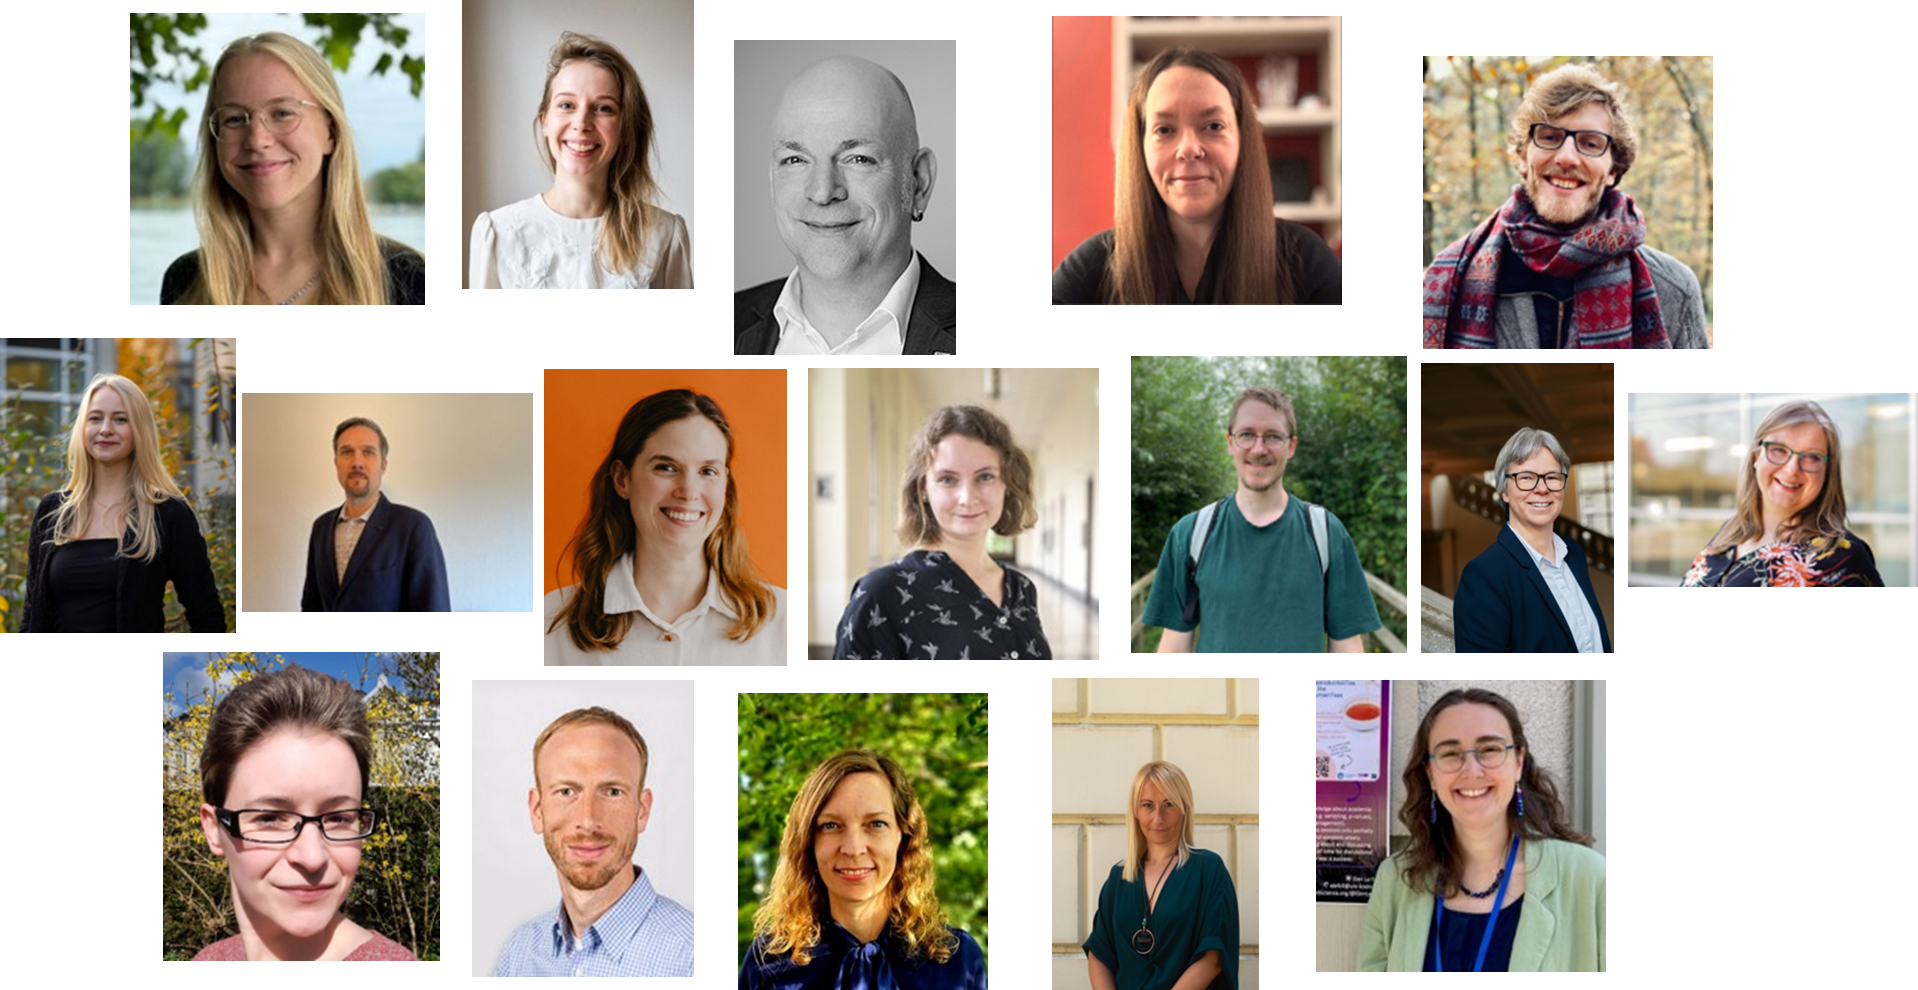
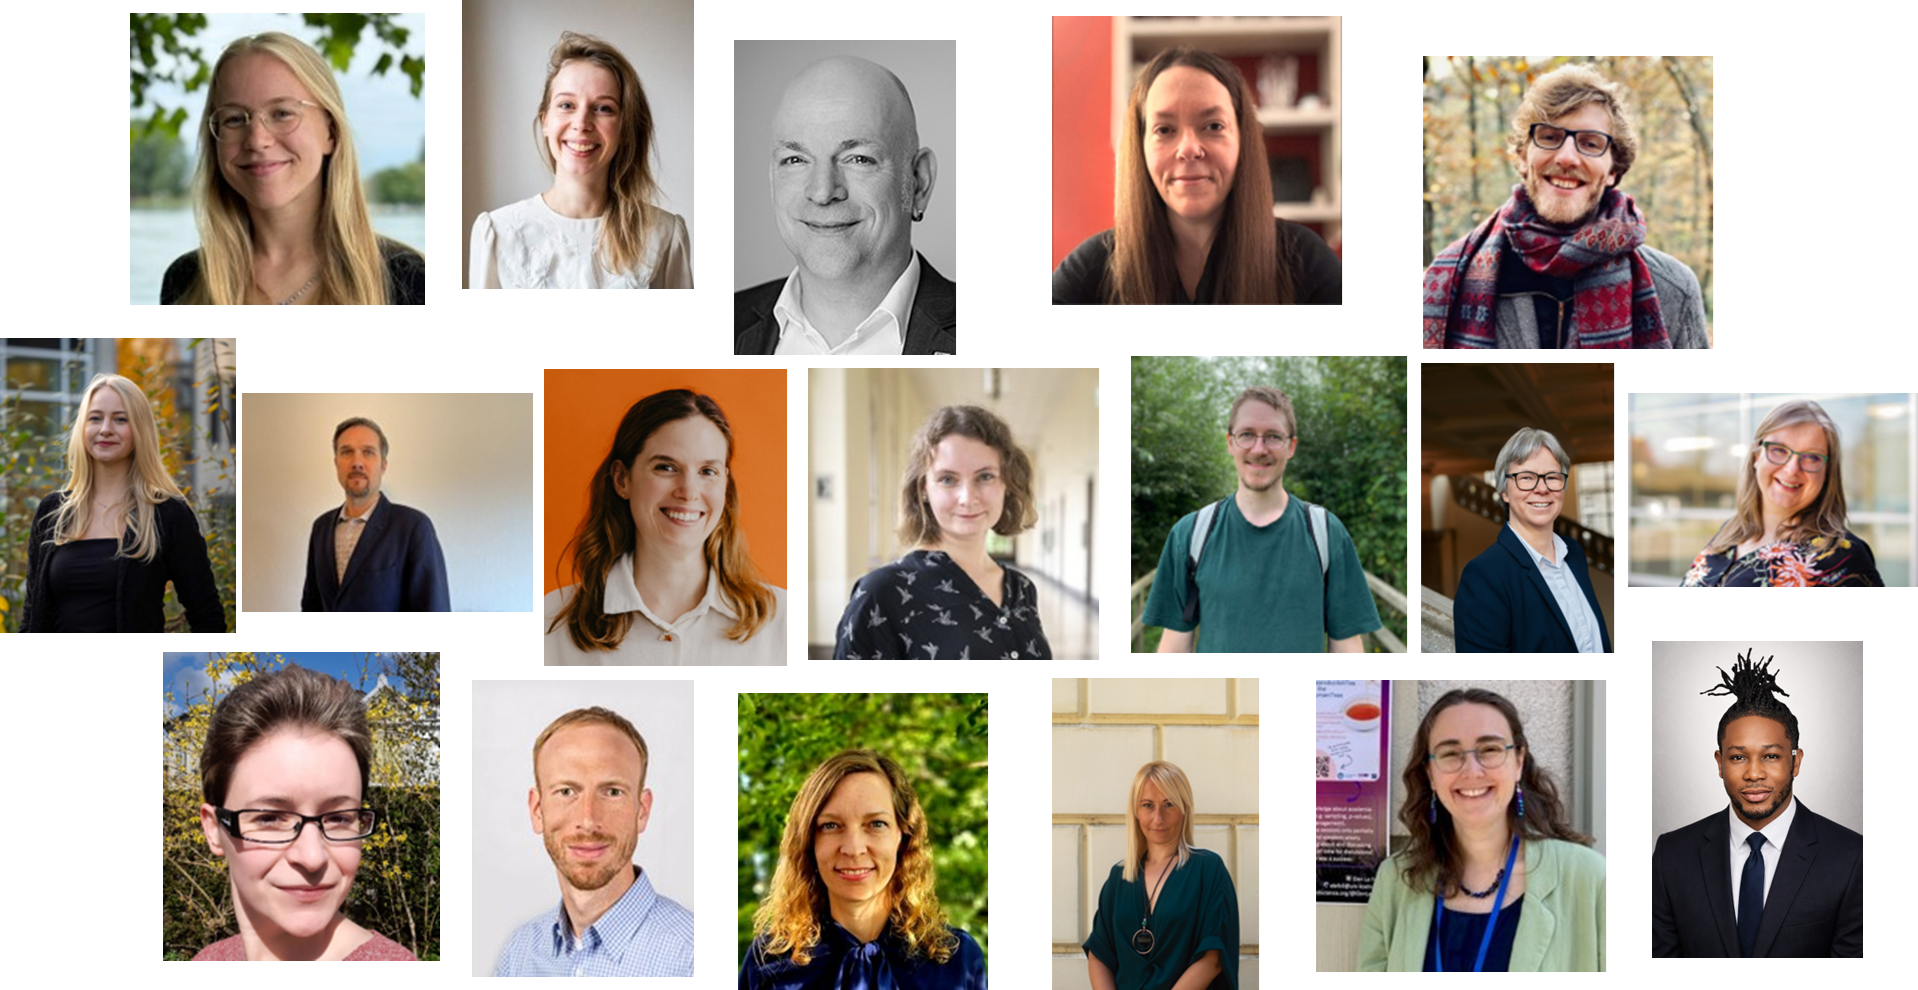
Added recordings and updated picture

Changed region(s): [[0.8613, 0.6364, 0.9844, 0.9697]]

diff --git a/docs/index.html b/docs/index.html
@@ -152,28 +152,37 @@ ul.task-list li input[type="checkbox"] {
 <p><em>Most published studies have not been subject to replication attempts yet and given limited resources for replication research, we need to priotize what to replicate (first). This walk will run participant through several criteria that can help researchers choosing what to replicate.</em><br>
 </p>
 <p><video src="https://www.uni-muenster.de/imperia/md/video/MueCOS/lukaswallrich-4-3-2026.mp4" class="img-fluid" controls=""><a href="https://www.uni-muenster.de/imperia/md/video/MueCOS/lukaswallrich-4-3-2026.mp4">Video</a></video></p></li>
-<li><p><strong>Replication Journal Showcase</strong> by <a href="https://thomas-rhys-evans.netlify.app">Thomas Evans</a>, <a href="https://etienneroes.ch">Etienne Roesch</a>, <a href="https://etienneroes.ch">Nina Ehmann</a>, <a href="https://www.linkedin.com/in/asarafoglou/">Alexandra Sarafoglou</a>, <a href="https://www.zbw.eu/de/ueber-zbw/profil/mitarbeiterprofile/profil-prof-dr-marianne-saam">Marianne Saam</a>, <a href="https://lukasroeseler.github.io/home/">Lukas Röseler</a> (4:00 - 5:00 pm CET, online), <a href="https://doi.org/10.5281/zenodo.18865086">JRR slides</a>, <a href="https://doi.org/10.5281/zenodo.18758426">R2 slides</a> <img src="logos/logo_forrt.png" class="img-fluid" width="63"><em>Learn about academic journals that have a strong focus on reproduction and replication studies. Members of the respective editorial boards will present <a href="https://rescience.github.io">Rescience C</a>, <a href="http://rescience.org/x">Rescience X</a>, the <a href="https://jcr-econ.org">Journal of Comments and Replications in Economics</a>, the <a href="https://scipost.org/JRobustRep/about">Journal of Robustness Reports</a>, the <a href="https://openpsychologydata.metajnl.com/">Journal of Open Psychology Data</a>, and <a href="https://www.uni-muenster.de/Ejournals/index.php/replicationresearch/index">Replication Research</a>.</em><br>
-</p></li>
+<li><p><strong>Replication Journal Showcase</strong> by <a href="https://thomas-rhys-evans.netlify.app">Thomas Evans</a>, <a href="https://etienneroes.ch">Etienne Roesch</a>, <a href="https://etienneroes.ch">Nina Ehmann</a>, <a href="https://www.linkedin.com/in/asarafoglou/">Alexandra Sarafoglou</a>, <a href="https://www.zbw.eu/de/ueber-zbw/profil/mitarbeiterprofile/profil-prof-dr-marianne-saam">Marianne Saam</a>, <a href="https://lukasroeseler.github.io/home/">Lukas Röseler</a> (4:00 - 5:00 pm CET, online), <a href="https://doi.org/10.5281/zenodo.18865086">JRR slides</a>, <a href="https://doi.org/10.5281/zenodo.18758426">R2 slides</a> <img src="logos/logo_forrt.png" class="img-fluid" width="63"><em>Learn about academic journals that have a strong focus on reproduction and replication studies. Members of the respective editorial boards will present <a href="https://rescience.github.io">Rescience C</a>, <a href="http://rescience.org/x">Rescience X</a>, the <a href="https://jcr-econ.org">Journal of Comments and Replications in Economics</a>, the <a href="https://scipost.org/JRobustRep/about">Journal of Robustness Reports</a>, the <a href="https://openpsychologydata.metajnl.com/">Journal of Open Psychology Data</a>, and <a href="https://www.uni-muenster.de/Ejournals/index.php/replicationresearch/index">Replication Research</a>.</em></p></li>
 </ul>
+<p><video src="https://www.uni-muenster.de/imperia/md/video/MueCOS/rescience.mp4" class="img-fluid" controls=""><a href="https://www.uni-muenster.de/imperia/md/video/MueCOS/rescience.mp4">Video</a></video></p>
+<p><video src="https://www.uni-muenster.de/imperia/md/video/MueCOS/jcre.mp4" class="img-fluid" controls=""><a href="https://www.uni-muenster.de/imperia/md/video/MueCOS/jcre.mp4">Video</a></video></p>
+<p><video src="https://www.uni-muenster.de/imperia/md/video/MueCOS/jrr.mp4" class="img-fluid" controls=""><a href="https://www.uni-muenster.de/imperia/md/video/MueCOS/jrr.mp4">Video</a></video></p>
+<p><video src="https://www.uni-muenster.de/imperia/md/video/MueCOS/r2.mp4" class="img-fluid" controls=""><a href="https://www.uni-muenster.de/imperia/md/video/MueCOS/r2.mp4">Video</a></video></p>
+<p><br>
+</p>
 </section>
 <section id="thursday-march-5th" class="level3">
 <h3 data-anchor-id="thursday-march-5th"><strong>Thursday, March 5th</strong></h3>
 <ul>
 <li><p><strong>Getting your replication report ready for submission</strong> by <a href="https://lukasroeseler.github.io/home/">Lukas Röseler</a> (1:00 - 1:30 pm CET, online), <a href="https://doi.org/10.5281/zenodo.18757229">slides</a> <img src="logos/logo_forrt.png" class="img-fluid" width="63"><img src="logos/logo_r2.png" style="font-size: 11pt;" width="91" height="20"><br>
-<em>Reports of reproduction or replication studies are fundamentally different from traditional articles in that there is always a predecessor or target study. To facilitate transparent and comprehensive reporting, participants will learn about manuscript templates and examples of best practices for reporting replications and reproductions.</em></p></li>
+<em>Reports of reproduction or replication studies are fundamentally different from traditional articles in that there is always a predecessor or target study. To facilitate transparent and comprehensive reporting, participants will learn about manuscript templates and examples of best practices for reporting replications and reproductions.</em> <video src="https://www.uni-muenster.de/imperia/md/video/MueCOS/roseler.mp4" class="img-fluid" controls=""><a href="https://www.uni-muenster.de/imperia/md/video/MueCOS/roseler.mp4">Video</a></video></p></li>
 <li><p><strong>Large scale replications vs.&nbsp;Meta-analyses: Lessons learned in developmental science</strong> by <a href="https://sites.google.com/site/chbergma/">Christina Bergmann</a> (2:30 - 3:30 pm CET, online)<br>
-<em>In developmental science, we typically test small samples of a very noisy population, so both meta-analyses and replications seem like a logical answer to the question, how robust results really are. But what can we learn from each and how do both fare when combined?</em></p></li>
+<em>In developmental science, we typically test small samples of a very noisy population, so both meta-analyses and replications seem like a logical answer to the question, how robust results really are. But what can we learn from each and how do both fare when combined?</em></p>
+<p><video src="https://www.uni-muenster.de/imperia/md/video/MueCOS/christina.mp4" class="img-fluid" controls=""><a href="https://www.uni-muenster.de/imperia/md/video/MueCOS/christina.mp4">Video</a></video></p></li>
 <li><p><strong>Replication Research with Students via the Collaborative Replication and Education Project (CREP)</strong> by <a href="https://lira.f.bg.ac.rs/ljiljana-lazarevic-en/">Lili Lazarevic</a> and <a href="https://jordanwagge.com/">Jordan Wagge</a> (3:30 - 4:00 pm CET), <a href="https://doi.org/10.5281/zenodo.18936899">slides</a><img src="logos/CREP.png" width="26" height="20"><br>
-<em>We will describe the Collaborative Replications and Education Project (CREP), a framework that involves students in contributing to science via replication projects. We will present the project products from the past 10+ years and describe the student experience and learning outcomes. Finally, we will discuss ways that students, instructors, and researchers can get involved with CREP.</em></p></li>
+<em>We will describe the Collaborative Replications and Education Project (CREP), a framework that involves students in contributing to science via replication projects. We will present the project products from the past 10+ years and describe the student experience and learning outcomes. Finally, we will discuss ways that students, instructors, and researchers can get involved with CREP.</em></p>
+<p><video src="https://www.uni-muenster.de/imperia/md/video/MueCOS/jordan-lili.mp4" class="img-fluid" controls=""><a href="https://www.uni-muenster.de/imperia/md/video/MueCOS/jordan-lili.mp4">Video</a></video></p></li>
 <li><p><strong>Getting started: Writing reproducible manuscripts using R Markdown</strong> by <a href="https://www.uke.de/allgemein/arztprofile-und-wissenschaftlerprofile/wissenschaftlerprofilseite_maren_klingelhöfer-jens.html">Maren Klingelhöfer-Jens</a> (4:00 - 5:00 pm CET, online), <a href="https://doi.org/10.5281/zenodo.18886525">slides</a> and <a href="https://github.com/m-klingelhoefer-j/Writing_reproducible_manuscripts">github repo</a> <img src="logos/logo_igor.png" class="img-fluid" width="22"><img src="logos/GRN_Logo.png" class="img-fluid" width="37"><br>
-<em>This introductory session provides an overview of the basics of R Markdown, including how to create, format, and render documents, as well as integrate code, data, figures, tables, and references. In addition, participants will be guided through specific R Markdown templates that can be used to create APA-compliant, publication-ready manuscripts. Some prior knowledge of R programming will be helpful for following this session.</em></p></li>
+<em>This introductory session provides an overview of the basics of R Markdown, including how to create, format, and render documents, as well as integrate code, data, figures, tables, and references. In addition, participants will be guided through specific R Markdown templates that can be used to create APA-compliant, publication-ready manuscripts. Some prior knowledge of R programming will be helpful for following this session.</em></p>
+<p><video src="https://www.uni-muenster.de/imperia/md/video/MueCOS/maren.mp4" class="img-fluid" controls=""><a href="https://www.uni-muenster.de/imperia/md/video/MueCOS/maren.mp4">Video</a></video></p></li>
 </ul>
 </section>
 <section id="friday-march-6th" class="level3">
 <h3 data-anchor-id="friday-march-6th"><strong>Friday, March 6th</strong></h3>
 <ul>
 <li><p><strong>Cooperation with students to conduct replication studies</strong> by <a href="https://linktr.ee/susanneadler">Susanne Adler</a> (1:00 - 1:30 pm CET, online) <img src="logos/logo_r2.png" style="font-size: 11pt;" width="91" height="20"><br>
-<em>Replication studies are a superb way to train (under-)graduate students in research methods. The thorough evaluation of the original study, the use of contemporary statistical methods, and practical applications of preregistration and data management provide students with a profound understanding of empirical research. The acquired skills do not just shape how future scientists and practitioners approach research, but the gathered evidence also contributes to strengthening a research field’s knowledge base. This talk outlines how state-of-the-art replication studies can be integrated into a seminar, what to look out for as a lecturer during these seminars, and describes an example study.</em></p></li>
+<em>Replication studies are a superb way to train (under-)graduate students in research methods. The thorough evaluation of the original study, the use of contemporary statistical methods, and practical applications of preregistration and data management provide students with a profound understanding of empirical research. The acquired skills do not just shape how future scientists and practitioners approach research, but the gathered evidence also contributes to strengthening a research field’s knowledge base. This talk outlines how state-of-the-art replication studies can be integrated into a seminar, what to look out for as a lecturer during these seminars, and describes an example study.</em></p>
+<p><video src="https://www.uni-muenster.de/imperia/md/video/MueCOS/susanne.mp4" class="img-fluid" controls=""><a href="https://www.uni-muenster.de/imperia/md/video/MueCOS/susanne.mp4">Video</a></video></p></li>
 <li><p><strong>Workshop: Promoting Robust Science Through Reanalyses</strong> by <a href="https://www.linkedin.com/in/ninaehmann/">Nina Ehmann</a> and <a href="https://www.linkedin.com/in/asarafoglou/">Alexandra Sarafoglou</a> (1:30 - 3:00 pm CET, online), <a href="https://doi.org/10.5281/zenodo.18890221">slides</a> <img src="logos/logo2_jrr.png" class="img-fluid" width="17"><br>
 <em>In published empirical studies, it often remains unclear to what extent the conclusions depend on the chosen analysis pipeline. To address this, we founded the <a href="https://www.journalofrobustnessreports.org/">Journal of Robustness Reports</a> (JRR), a diamond open-access journal that publishes concise re-analyses of potentially impactful empirical findings. In this workshop, participants will re-analyze a published study and begin drafting a Robustness Report that they can later <a href="https://scipost.org/JRobustRep">submit to the journal</a>. Interested participants can already familiarize themselves with the target article: <a href="https://doi.org/10.1038/s41562-023-01538-4" class="uri">https://doi.org/10.1038/s41562-023-01538-4</a>.</em></p></li>
 </ul>
